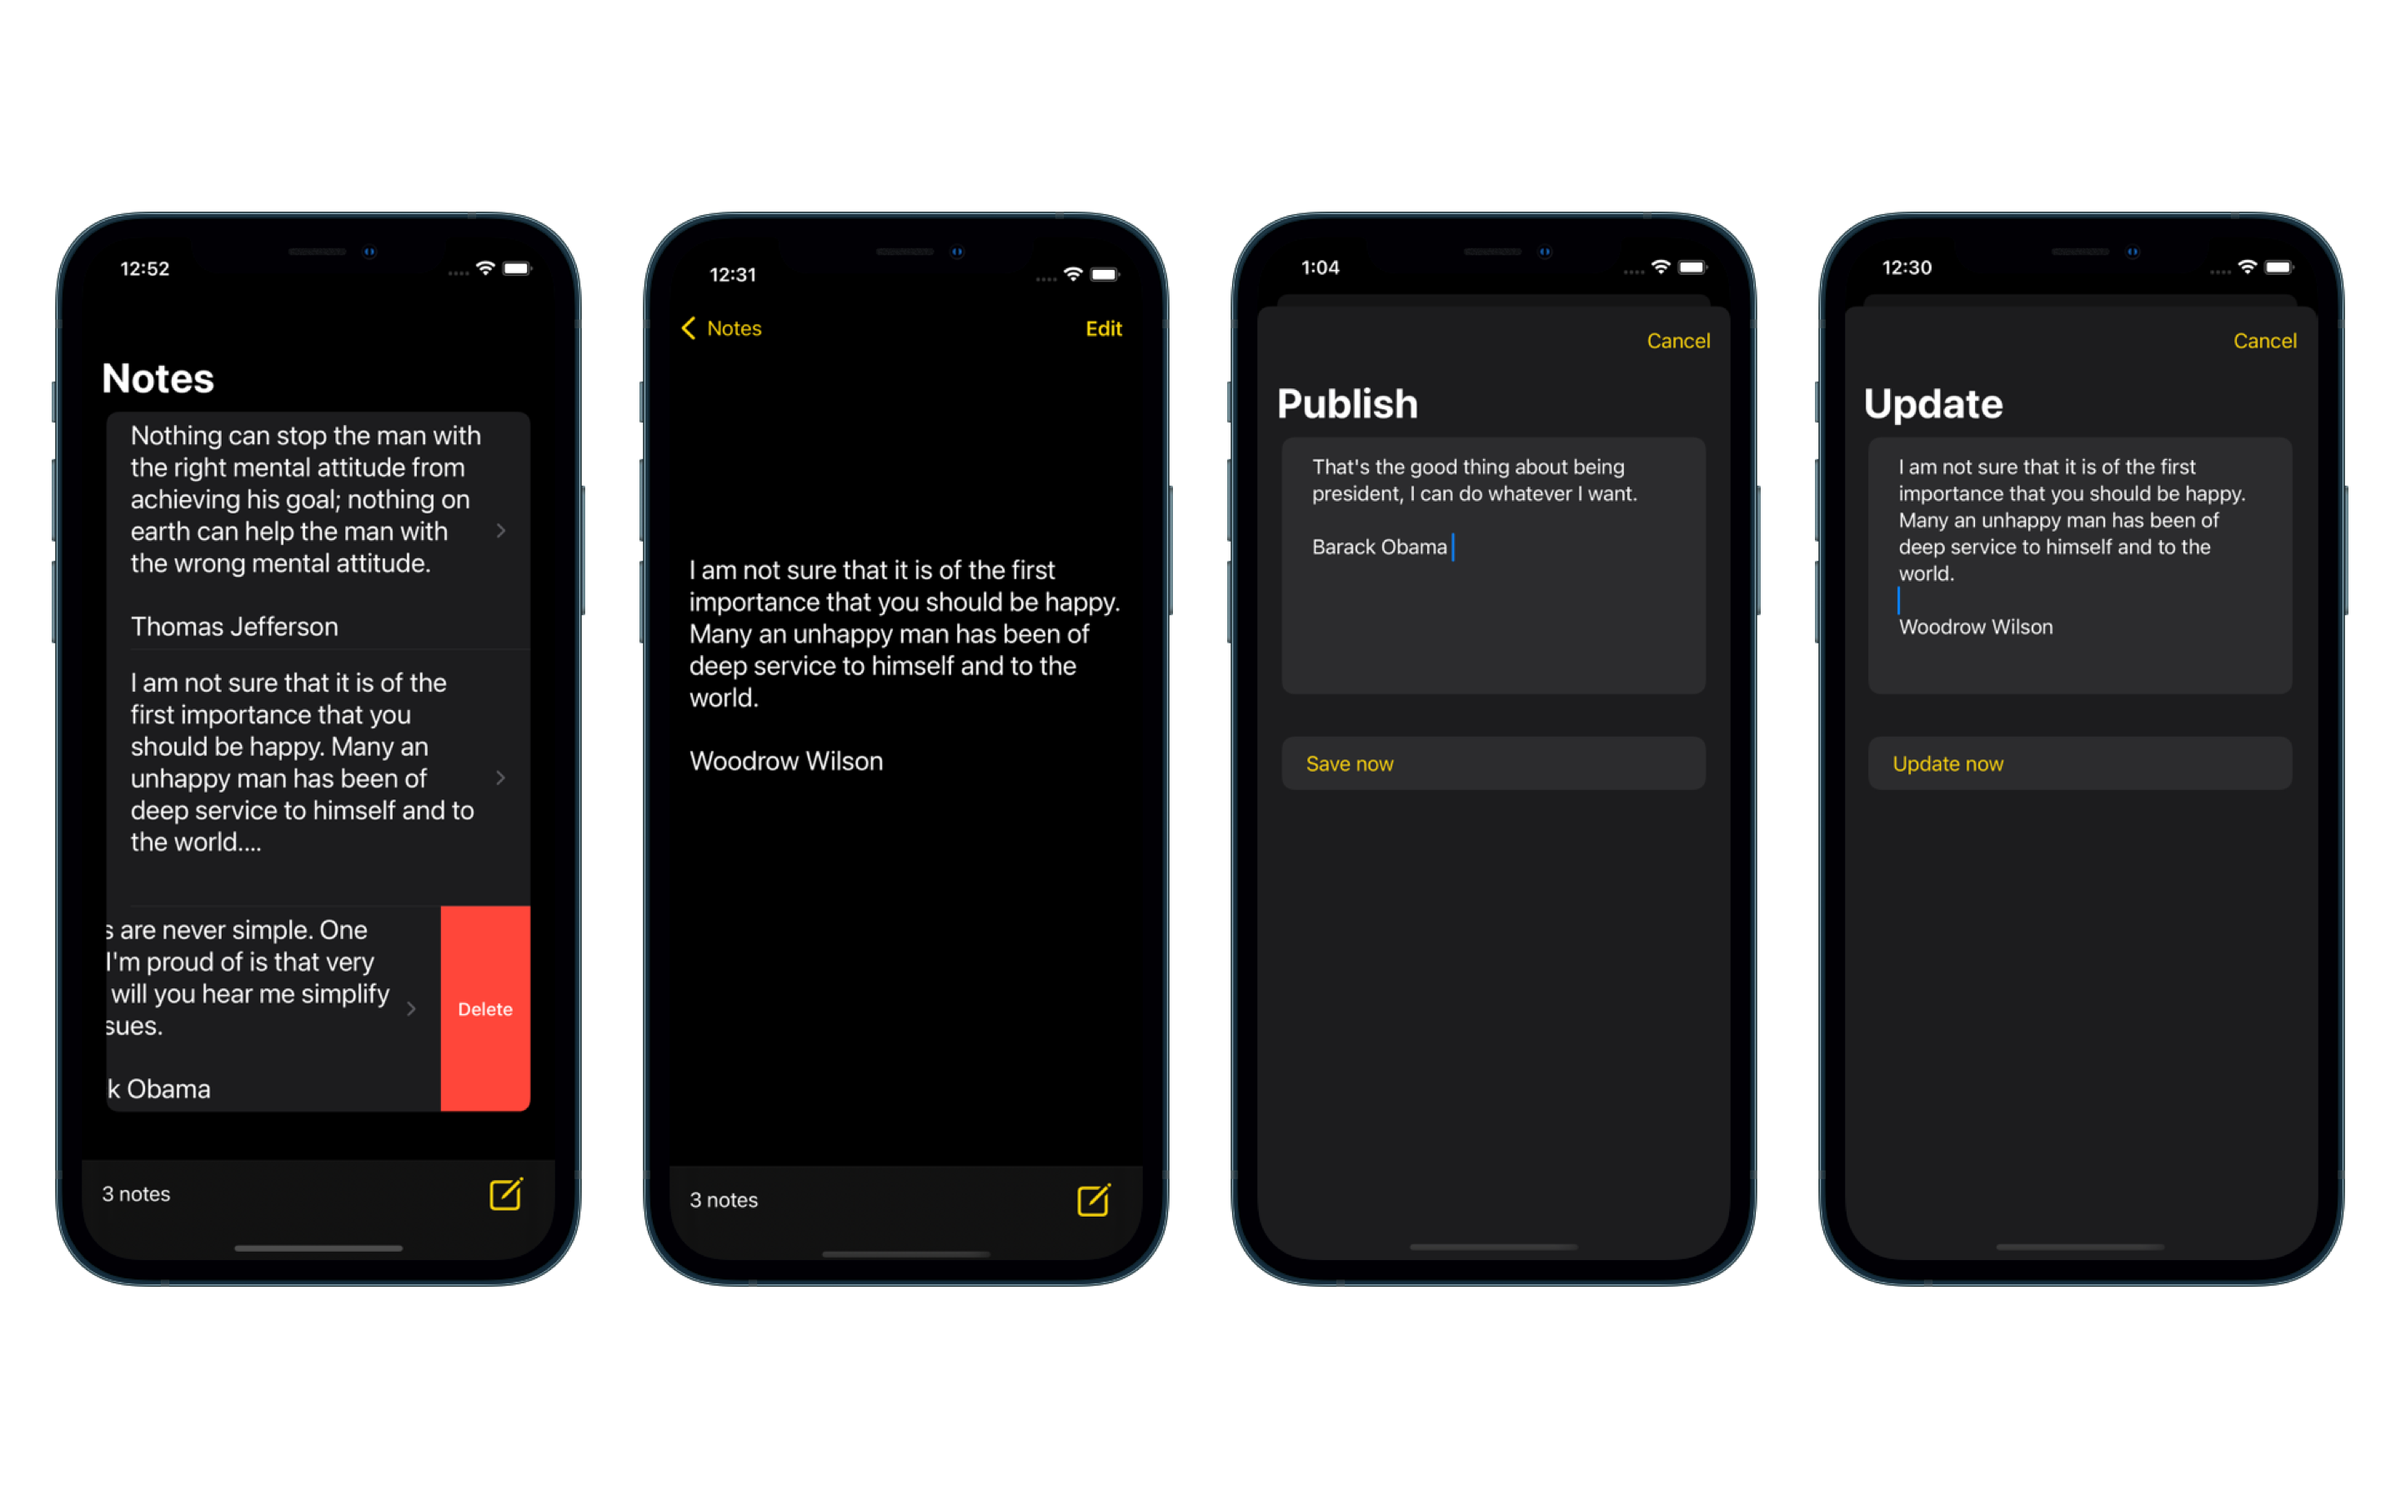
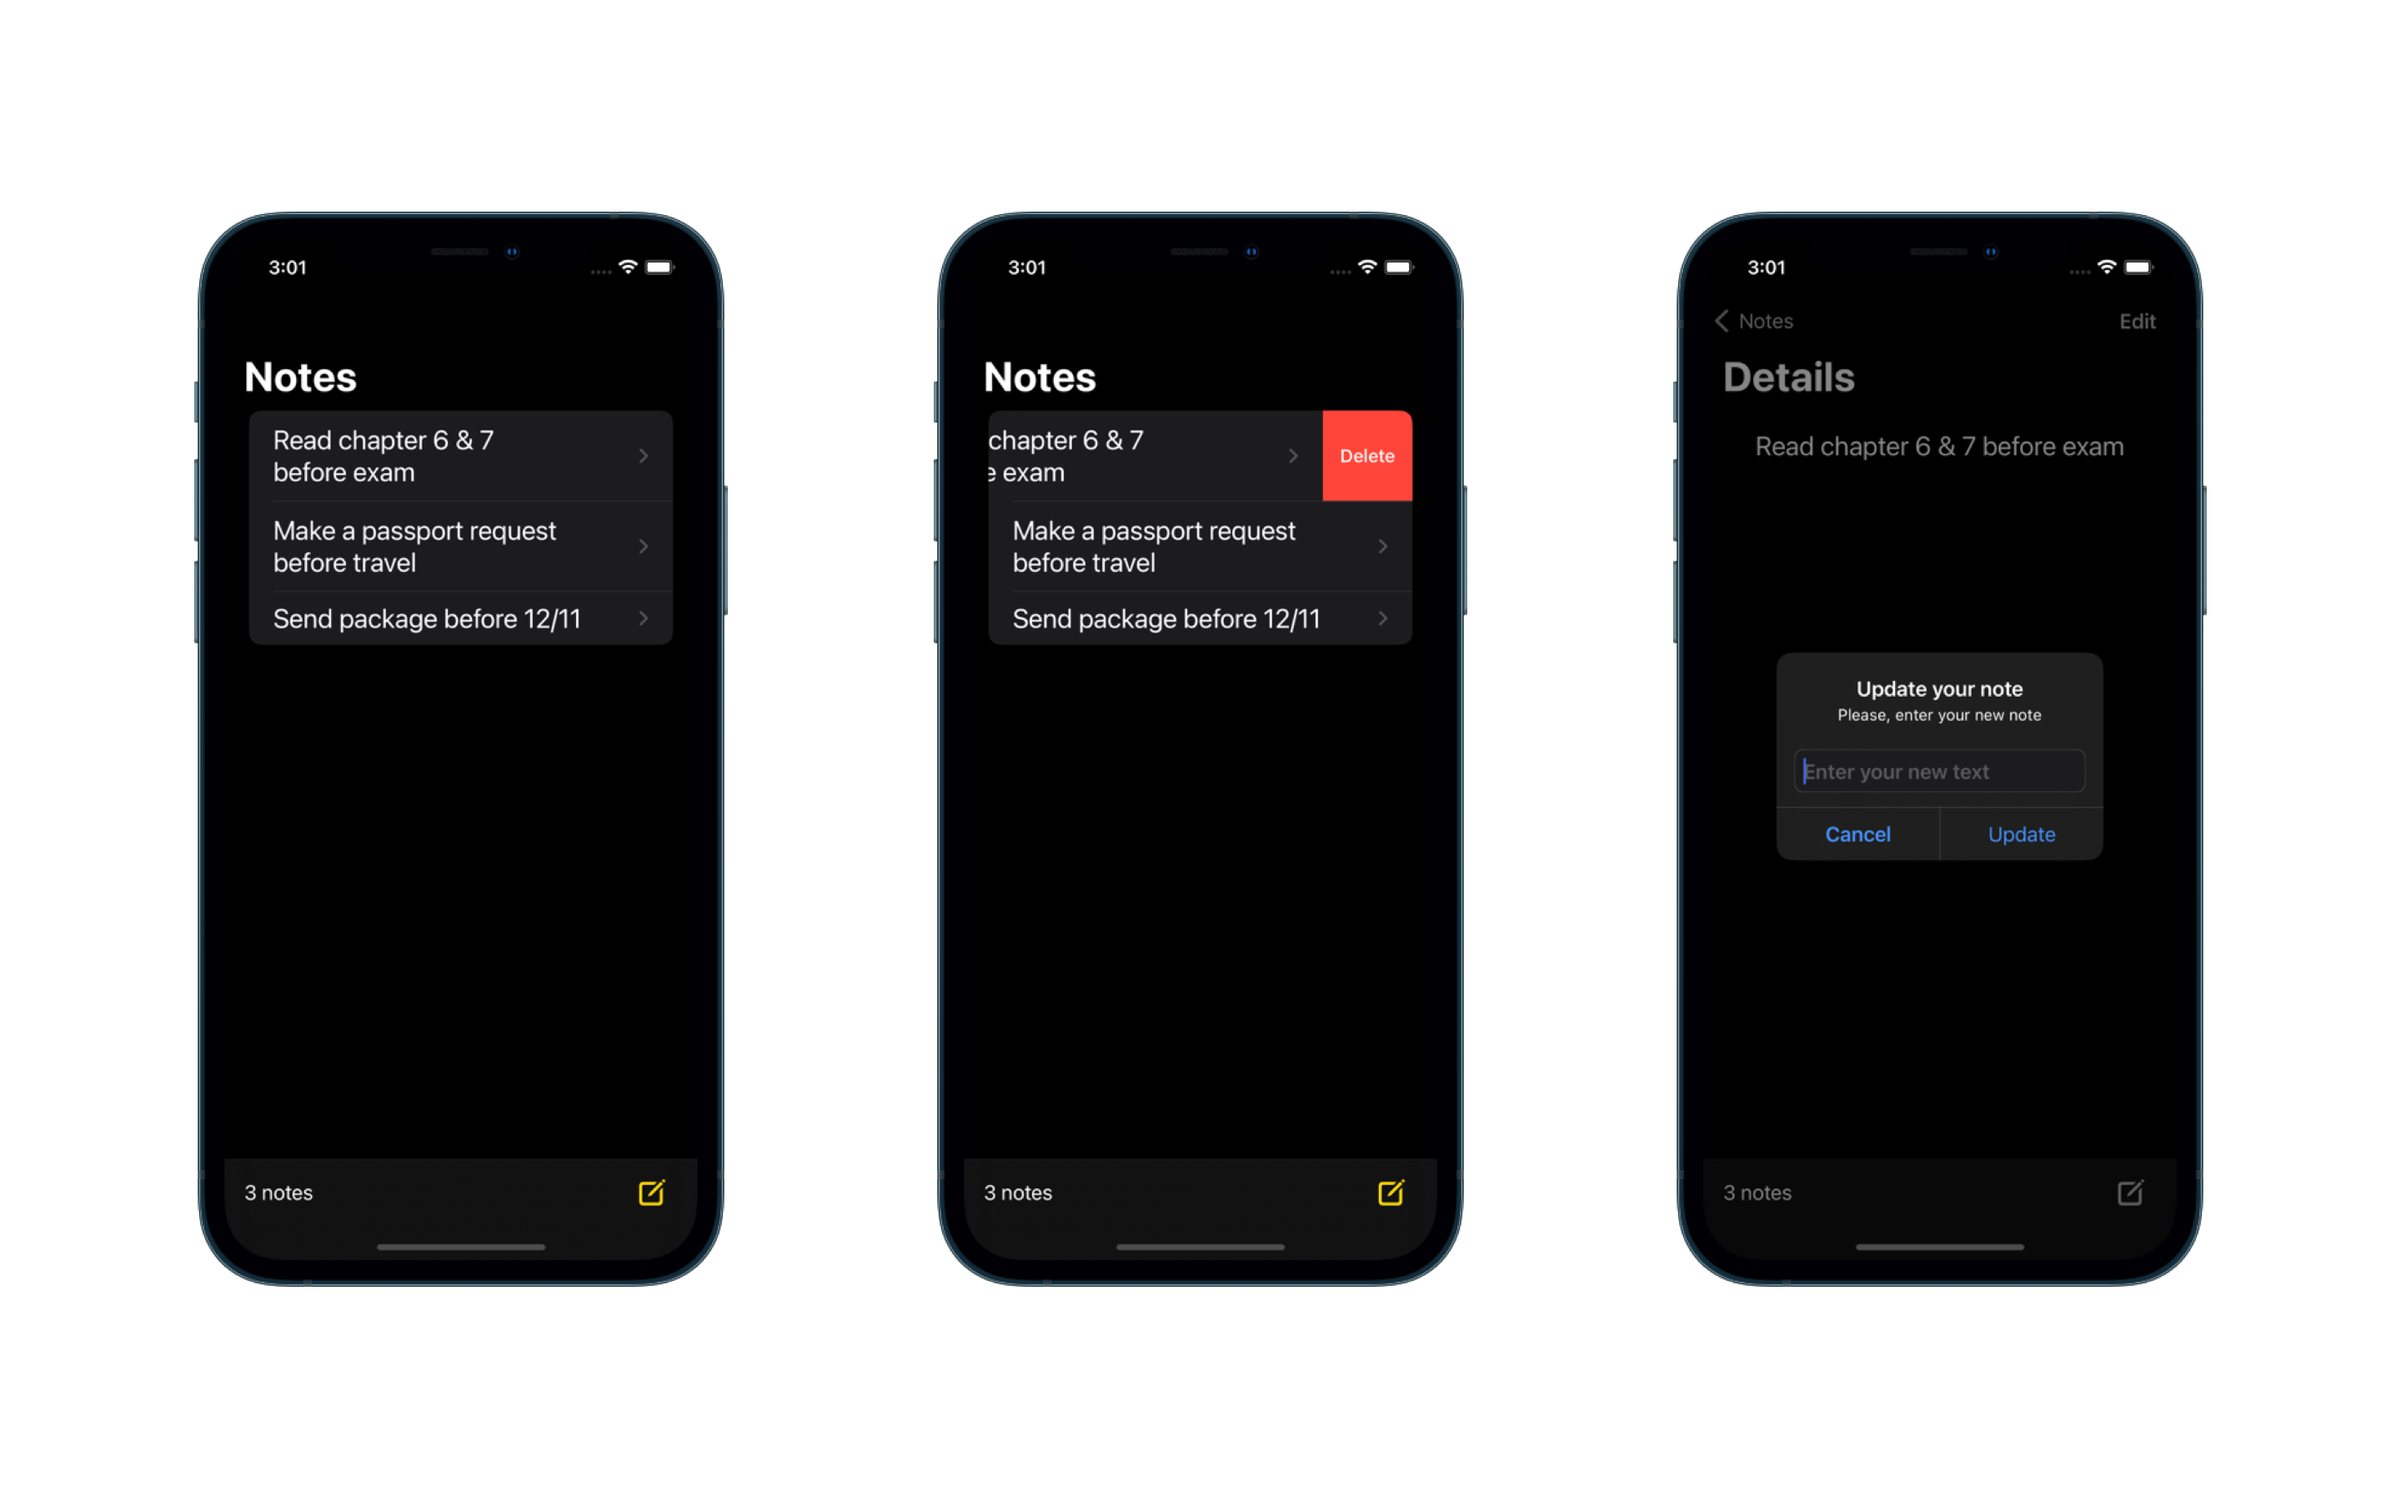
Adapting to iOS 16, using alert and remvoing screens.

diff --git a/Note/View/ContentView.swift b/Note/View/ContentView.swift
@@ -10,10 +10,11 @@ import SwiftUI
 struct ContentView: View {
     
     @ObservedObject private var viewModel = NoteViewModel()
-    @State private var showingSheet = false
+    @State private var presentAlert = false
+    @State private var titleText: String = ""
     
     var body: some View {
-        NavigationView {
+        NavigationStack {
             List {
                 ForEach(viewModel.notes, id:\.id) { Note in
                     NavigationLink(destination: DetailsView(note: Note)) {
@@ -26,20 +27,33 @@ struct ContentView: View {
                 .navigationTitle("Notes")
         }.accentColor(.yellow)
             .toolbar {
-                ToolbarItemGroup(placement: .bottomBar) {
+                ToolbarItem(placement: .bottomBar) {
                     Text("\(viewModel.notes.count) notes")
-                Spacer()
-                Button {
-                    showingSheet.toggle()
-                } label: {
-                    Image(systemName: "square.and.pencil")
-                }.foregroundColor(.yellow)
-                 .font(.system(size: 22, weight: .medium))
-                 .sheet(isPresented: $showingSheet) {
-                    FormView()
+                }
+                ToolbarItem(placement: .bottomBar) {
+                    Button {
+                        presentAlert = true
+                    } label: {
+                        Image(systemName: "square.and.pencil")
+                            .imageScale(.large)
+                            .bold()
+                            .accentColor(.yellow)
+                    }.alert("Note", isPresented: $presentAlert, actions: {
+                        TextField("Enter your text", text: $titleText)
+                        Button("Save", action: {
+                            // post the text to Firestore, then erase the text:
+                            self.viewModel.addData(title: titleText)
+                            titleText = ""
+                        })
+                        Button("Cancel", role: .cancel, action: {
+                            presentAlert = false
+                            titleText = ""
+                        })
+                    }, message: {
+                        Text("Please, write your note")
+                    })
                 }
             }
-        }
     }
 }
 

diff --git a/Note/View/DetailsView.swift b/Note/View/DetailsView.swift
@@ -9,11 +9,13 @@ import SwiftUI
 
 struct DetailsView: View {
     
-    @State private var showingSheet = false
+    @State private var presentAlert = false
+    @State private var titleText: String = ""
+    @ObservedObject private var viewModel = NoteViewModel()
     var note: Note
     
     var body: some View {
-        NavigationView {
+        NavigationStack {
             ScrollView {
                 VStack {
                     Text(note.title ?? "")
@@ -23,17 +25,32 @@ struct DetailsView: View {
                     Spacer()
                 }
             }
-            
+            .toolbar {
+                ToolbarItem(placement: .confirmationAction) {
+                    Button {
+                        presentAlert = true
+                    } label: {
+                        Text("Edit")
+                            .bold()
+                            .accentColor(.yellow)
+                    }.alert("Update your note", isPresented: $presentAlert, actions: {
+                        TextField("Enter your new text", text: $titleText)
+                        
+                        Button("Update", action: {
+                            // post the text to Firestore, then erase the text:
+                            self.viewModel.updateData(title: titleText, id: note.id!)
+                            titleText = ""
+                        })
+                        Button("Cancel", role: .cancel, action: {
+                            presentAlert = false
+                            titleText = ""
+                        })
+                    }, message: {
+                        Text("Please, enter your new note")
+                    })
+                }
+            }
         }.navigationTitle("Details")
-        .navigationBarItems(trailing:
-                                Button(action: {
-            showingSheet.toggle()
-        }) {
-            Text("Edit").bold()
-        }.sheet(isPresented: $showingSheet) {
-            EditView(note: note)
-        }
-        )
     }
 }
 

diff --git a/Note/View Model/NoteViewModel.swift b/Note/View Model/NoteViewModel.swift
@@ -12,8 +12,8 @@ import SwiftUI
 class NoteViewModel: ObservableObject {
     
     @Published var notes = [Note]() // Reference to our Model
-    private var databaseReference = Firestore.firestore().collection("Notes") // reference to our collection
-
+    private var databaseReference = Firestore.firestore().collection("Notes") // reference to our Firestore's collection
+    
     // function to post data
     func addData(title: String) {
         do {
@@ -62,7 +62,5 @@ class NoteViewModel: ObservableObject {
             }
         }
     }
-    
-    // Post images to Firebase Storage
     
 }

diff --git a/Note/Models/Note.swift b/Note/Models/Note.swift
@@ -5,12 +5,10 @@
 //  Created by Sullivan De carli on 23/05/2022.
 //
 
-import Foundation
 import FirebaseFirestoreSwift
 import SwiftUI
 
 struct Note: Codable {
     @DocumentID var id: String? // @DocumentID to fetch the identifier from Firestore
     var title: String?
-    var header: String?
 }
